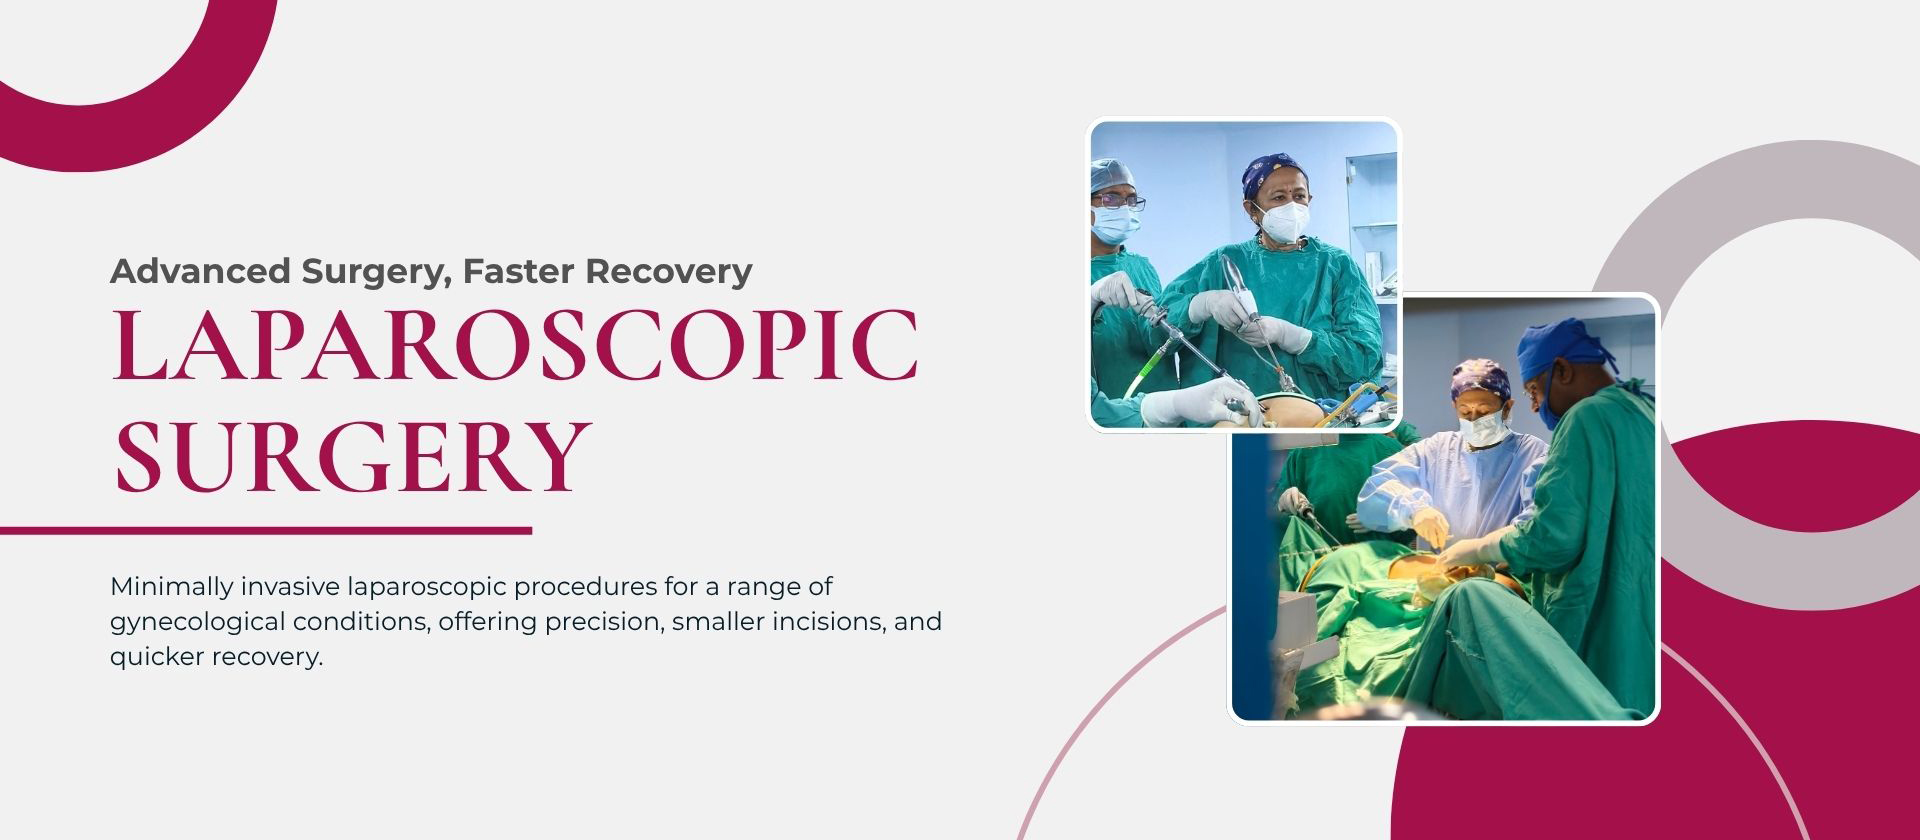
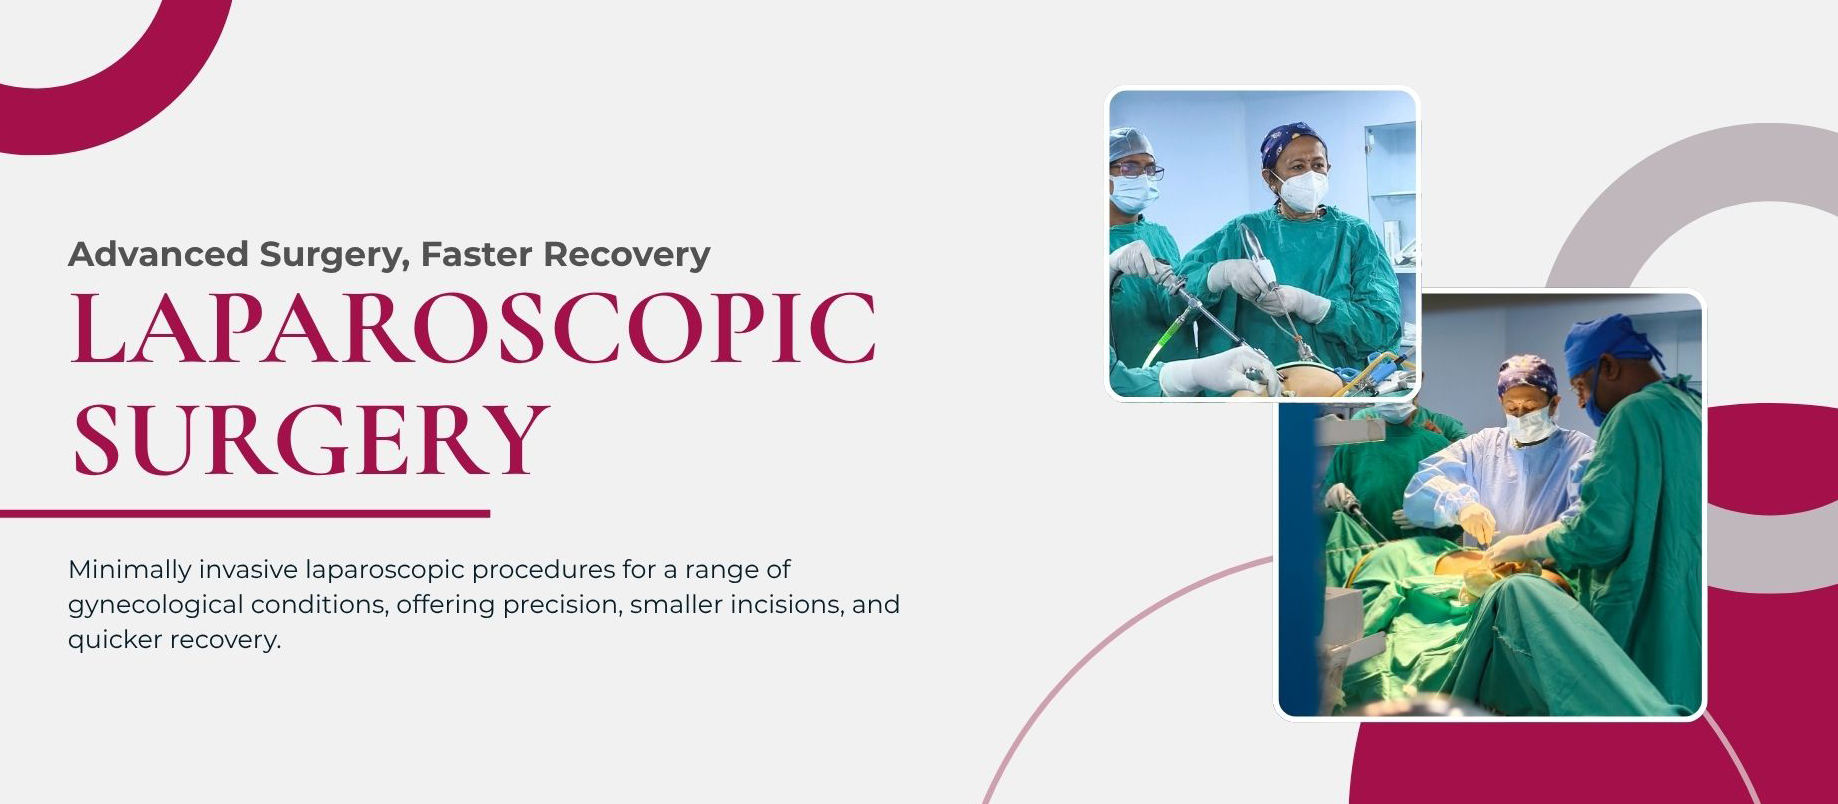
ff

diff --git a/src/Component/Head.jsx b/src/Component/Head.jsx
@@ -1,32 +1,32 @@
 import React, { useEffect, useState } from "react";
 import "aos/dist/aos.css";
-import BannerMain from "../assets/Banners/BannerMain.jpg";
-import qwq from "../assets/Banners/qwq.jpg";
-import FirstBanner from "../assets/Banners/FirstBanner.png";
+import "../Style/Style.css";
 // import DrVandanaIntro from "../assets/Banners/DrVandanaIntro.jpg";
-import DrVandanaIntroo from "../assets/Banners/DrVandanaIntroo.jpg";
-import LaproscopyBanner from "../assets/Banners/LaproscopyBanner.png";
-import UpdatedBanner from "../assets/Banners/UpdatedBanner.png";
-import BannerUpdatedA from "../assets/Banners/BannerUpdatedA.png";
-import BannerAll from "../assets/Banners/BannerAll.png";
+// import qwq from "../assets/Banners/qwq.jpg";
+// import FirstBanner from "../assets/Banners/FirstBanner.png";
+// import DrVandanaIntroo from "../assets/Banners/DrVandanaIntroo.jpg";
+// import BannerMain from "../assets/Banners/BannerMain.jpg";
+// import LaproscopyBanner from "../assets/Banners/LaproscopyBanner.png";
+// import UpdatedBanner from "../assets/Banners/UpdatedBanner.png";
+// import BannerUpdatedA from "../assets/Banners/BannerUpdatedA.png";
+// import BannerAll from "../assets/Banners/BannerAll.png";
+import VaginalLaserTreatment from "../assets/Banners/VaginalLaserTreatment.jpg";
 import LaparoscopicSurgery from "../assets/Banners/LaparoscopicSurgery.jpg";
 import HysteroscopySurgery from "../assets/Banners/HysteroscopySurgery.jpg";
-import VaginalLaserTreatment from "../assets/Banners/VaginalLaserTreatment.jpg";
 import DrVandanaIntro from "../assets/Banners/DrVandanaIntro.png";
 import InfertilityIVF from "../assets/Banners/InfertilityIVF.jpg";
 import AestheticGynae from "../assets/Banners/AestheticGynae.png";
-import "../Style/Style.css";
 
 const Head = () => {
   const images = [
-    // DrVandanaIntro,
-    // BannerAll,
     DrVandanaIntro,
     InfertilityIVF,
     AestheticGynae,
     HysteroscopySurgery,
     VaginalLaserTreatment,
     LaparoscopicSurgery,
+    // DrVandanaIntro,
+    // BannerAll,
     // UpdatedBanner,
     // FirstBanner,
     // BannerUpdatedA,

diff --git a/src/Component/NavigationB.jsx b/src/Component/NavigationB.jsx
@@ -10,8 +10,8 @@ import { IoCallOutline } from "react-icons/io5";
 import {
   ChevronDownIcon,
   PlusIcon,
-  Bars3Icon,
   XMarkIcon,
+  Bars3Icon,
 } from "@heroicons/react/24/solid";
 import { CiMenuFries } from "react-icons/ci";
 // import { Button } from "@material-tailwind/react";
